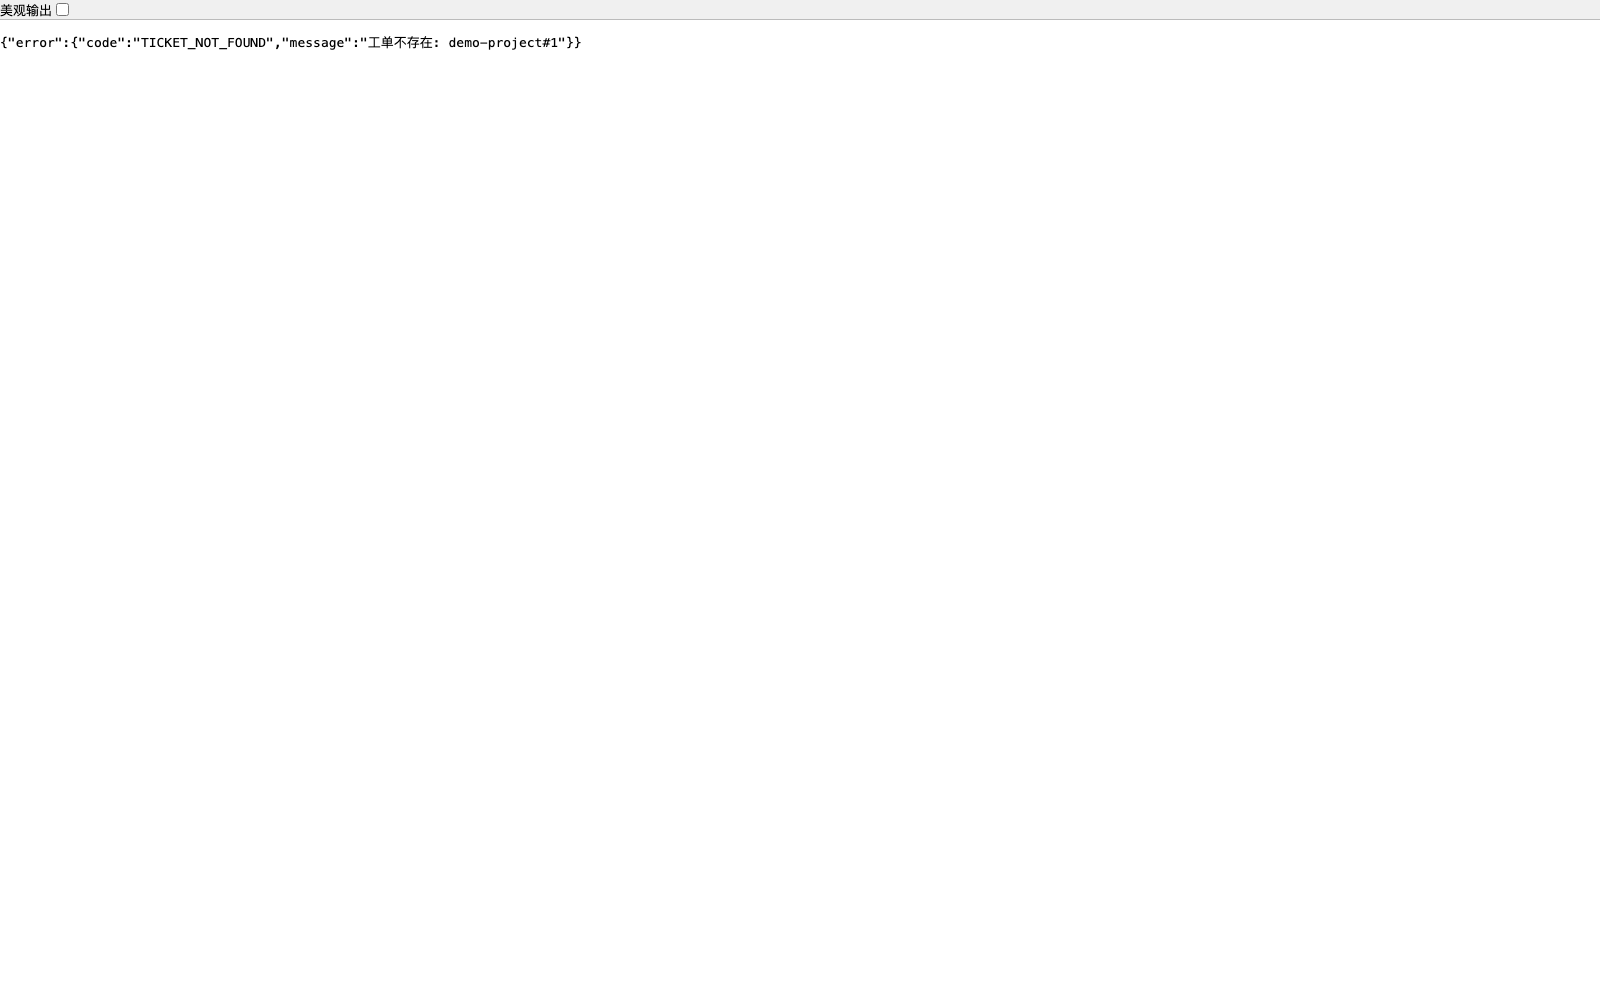
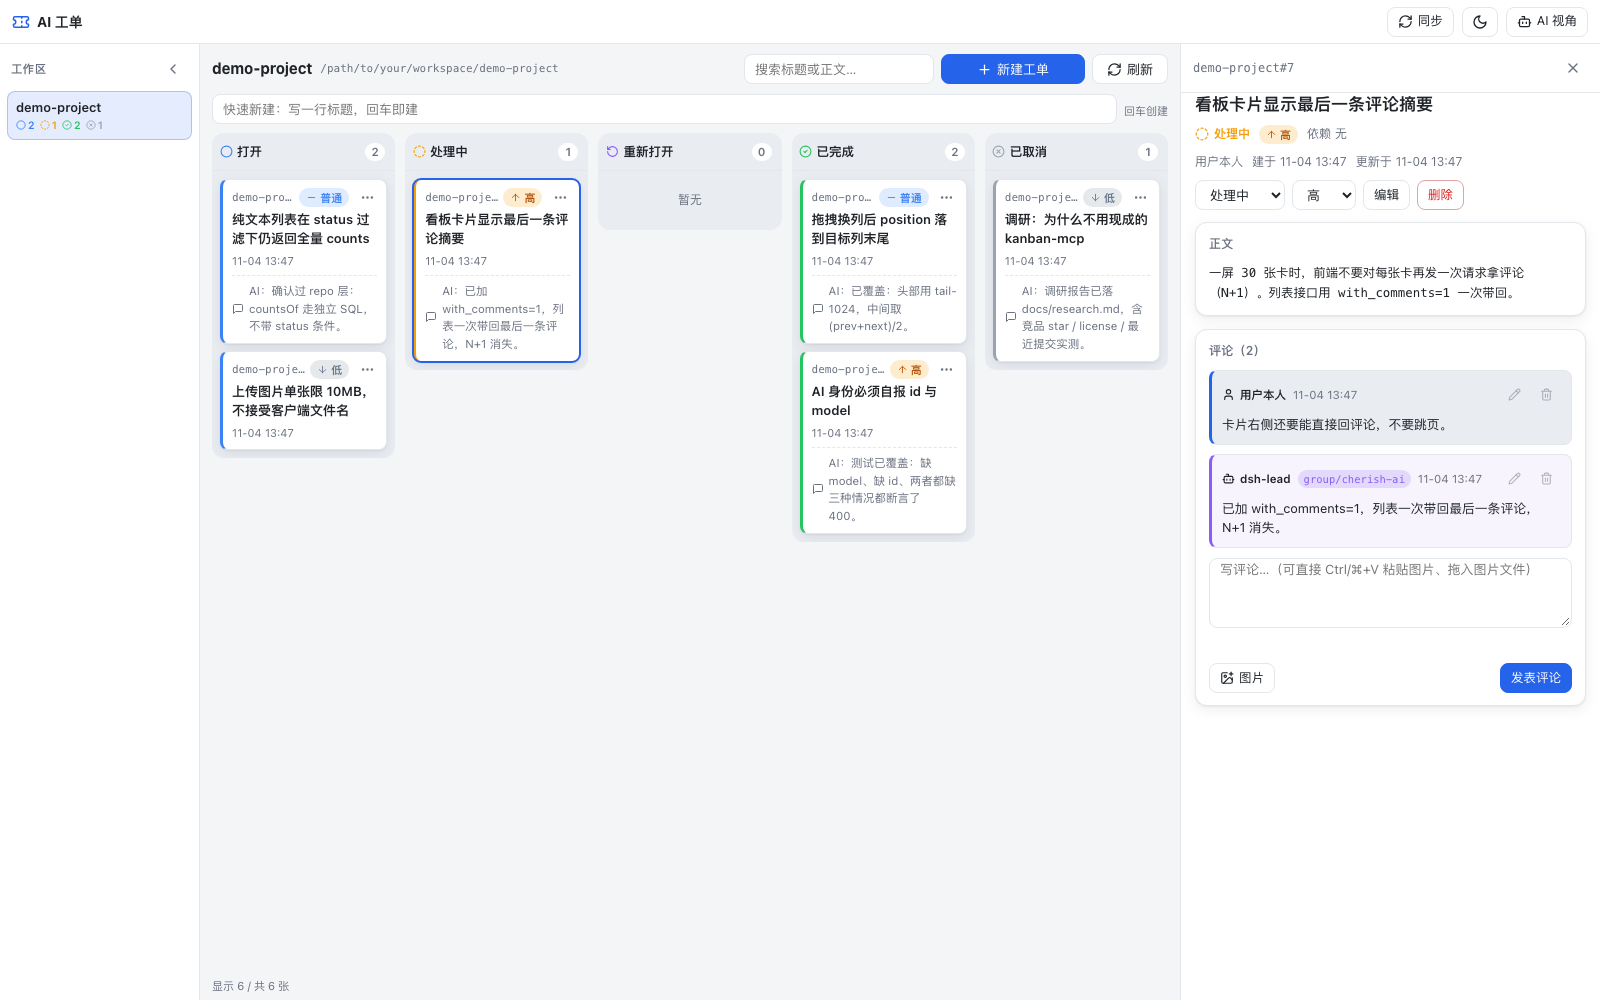
docs+web: 补 AGENTS.md 协作规范、README 截图，修 common.js 一处问题

diff --git a/web/common.js b/web/common.js
@@ -409,9 +409,24 @@
       }
     });
     document.body.appendChild(drawer);
-    document.addEventListener('keydown', function escClose(e) {
-      if (e.key === 'Escape') { drawer.remove(); document.removeEventListener('keydown', escClose); }
-    });
+
+    // 统一的收尾：移除抽屉 + 摘掉两个全局监听，避免泄漏
+    function closeDrawer() {
+      drawer.remove();
+      document.removeEventListener('keydown', onEsc);
+      document.removeEventListener('mousedown', onOutside);
+    }
+    function onEsc(e) { if (e.key === 'Escape') closeDrawer(); }
+
+    // 用户补充（#46）：这个抽屉点外面可以直接收回 —— 它只展示一条 URL，没有未保存内容，
+    // 不属于「点了外面就丢东西」的表单弹窗，所以维持点外关闭的交互。
+    function onOutside(e) {
+      if (!drawer.contains(e.target)) closeDrawer();
+    }
+    document.addEventListener('keydown', onEsc);
+    // 延迟挂载，避免「点开抽屉的那一次点击」立刻把它关掉
+    setTimeout(function () { document.addEventListener('mousedown', onOutside); }, 0);
+
     return drawer;
   }
 

diff --git a/docs/agents/LAYOUT.md b/docs/agents/LAYOUT.md
@@ -1,0 +1,135 @@
+# 目录地图与文件规范
+
+> 本文件是「文件和目录放哪里」的唯一权威清单，由根目录 [`AGENTS.md`](../../AGENTS.md) 引用。
+> 冲突时以本文件为准：`AGENTS.md` 只留引用，不再重复登记。
+
+这个仓库有多个会话、多个 AI 同时在改。历史上每个 AI 都按自己的习惯造一套目录（`static/` / `public/` / `frontend/` …），导致资源散落、同一种东西好几个地方都有。下面这套规则就是为了把这件事锁死。
+
+要求：
+
+1. 只用第一节目录树里登记过的目录。 树里没有的目录，未经过用户明确要求的一律不许新建。
+2. 判定看用途，不看名字。 不要问"我叫这个名字算不算违规"，要问"这个用途树里有没有登记位置"。有，就必须用那一个；换个名字另造一份，同样是违规。
+3. 根目录是锁死的。 根级只允许 `AGENTS.md` `README.md` `LICENSE` `package.json` `package-lock.json` `.gitignore`，不许往根上扔任何报告、脚本、截图、日志。
+4. 确实找不到合适的位置才允许新建，而且必须同一次改动里先把新条目写进第一节的目录树（写清用途和约束），再创建目录。
+5. 提交前必跑 `npm test` 与 `npm run smoke`，两个都全绿才算过。布局本身目前靠这条规则和 review 核对，没有脚本自动兜。
+
+`目录地图` 就是那份唯一的权威清单。
+
+---
+
+## 一、目录地图
+
+规则：已登记目录内部可以正常新增文件（比如 `tests/` 里多一份用例、`src/repo/` 里多一个模块），但文件名必须过下面「文件命名」那几条。
+
+下面这些同类型行为一律禁止：
+
+| 想干的事 | 树里已登记的位置 | 不许出现的写法（举例，不限于此） |
+| --- | --- | --- |
+| 存页面截图 | `docs/screenshots/` | `screenshot/` `shots/` `captures/` `snapshots/` `pics/` `photo/` `img/` `png/` |
+| 存文档配图 | `docs/` | `docs/images/` `docs/pic/` `docs/figures/` `doc-assets/` |
+| 放数据层代码 | `src/repo/` | `src/models/` `src/dao/` `src/db/` `src/store/` |
+| 放 HTTP 路由 | `src/routes/` | `src/api/` `src/controllers/` `src/handlers/` `src/endpoints/` |
+| 放纯文本渲染 | `src/render/` | `src/text/` `src/formatter/` `src/format/` `src/plain/` |
+| 放前端脚本 | `web/` | `static/` `public/` `frontend/` `client/` `assets/` `js/` `css/` |
+| 放自动化测试 | `tests/` | `test/` `__tests__/` `spec/` `e2e/` |
+| 放可重复跑的工具脚本 | `scripts/` | `tools/` `bin/` `util/` `helpers/` |
+| 放一次性试验脚本 | 不许留在仓库；要留就进 `scripts/` 并写清用途 | `tmp/` `scratch/` `temp/` `playground/` `demo/` `sandbox/` `experiments/` |
+| 写项目级文档 | `docs/` | 根级 `REPORT.md` `SUMMARY.md` `NOTES.md` `TODO.md` `验收.md`；`doc/` `documents/` |
+| 放运行期数据 | `data/`（整个目录 gitignore） | 根级 `db/` `database/` `storage/` `uploads/` |
+| 备份 / 旧版本 | 不许备份，用 git 历史 | `bak/` `backup/` `old/` `legacy/` `archive/` `*-copy` `*-old` `v2/` `new/` |
+
+三秒判定法：先问"这个东西属于哪个已登记用途"，找到就用那一个位置；一个都找不到，才允许新建，而且必须先写进下面的目录树、再创建目录。
+
+```
+ai-mcp-ticket/
+├── AGENTS.md                    协作铁律（唯一入口）。目录与文件规范见 docs/agents/LAYOUT.md
+├── README.md                    项目总览、架构、启动步骤、MCP 接入
+├── LICENSE                      MIT
+├── package.json                 根脚本：start / dev / test / smoke
+├── package-lock.json            依赖版本锁定，npm 自动维护，不手改
+├── .gitignore                   依赖 / 运行期数据 / 上传 / 日志 / 备份 全在这里挡
+│
+├── src/                         后端。ESM，按职责分层，不放前端代码
+│   ├── server.js                进程入口：读 PORT，起 HTTP，注册三套接口
+│   ├── app.js                   Express 装配：路由挂载 / 内容协商 / 错误处理
+│   ├── db.js                    唯一数据库连接：读 DB_PATH，建表，开 WAL
+│   ├── actor.js                 身份解析：X-Actor-Id / X-Actor-Role / X-Actor-Model
+│   ├── mcp.js                   MCP 服务：10 个工具，走 /mcp
+│   ├── views.js                 HTML 视图
+│   ├── workspace-sync.js        从 DeepSeek Harness 只读同步工作区，读 DSH_HOME
+│   ├── repo/                    数据层，只操作本文件登记的表
+│   │   ├── tickets.js
+│   │   ├── comments.js
+│   │   ├── actors.js
+│   │   └── workspaces.js
+│   ├── routes/                  HTTP 路由，只做入参校验 + 调 repo
+│   │   ├── api.js               JSON 写接口
+│   │   ├── pages.js             网页 + 纯文本视图
+│   │   └── uploads.js           附件上传，落 UPLOAD_DIR
+│   └── render/
+│       └── text.js              纯文本渲染。给 AI 读，改这里要算 token 成本
+│
+├── web/                         前端。原生 HTML/CSS/JS，无框架、无打包、无构建步骤
+│   ├── index.html               唯一页面入口
+│   ├── app.js                   启动与路由
+│   ├── board.js                 看板拖拽
+│   ├── detail.js                工单详情
+│   ├── editor.js                新建 / 编辑工单
+│   ├── common.js                共享工具：请求、格式化、身份
+│   ├── sidebar.js               工作区侧栏
+│   ├── deps-picker.js           依赖选择器
+│   ├── images.js                附件预览
+│   ├── icons.js                 内联图标
+│   ├── style.css                组件样式
+│   └── layout.css               布局样式
+│
+├── tests/                       node:test 用例，一个文件对一个模块
+│
+├── scripts/                     可重复跑的工具脚本，不放业务代码
+│   ├── smoke.js                 端到端冒烟
+│   ├── demo-data.mjs            造演示数据
+│   ├── install-dsh-mcp.mjs      把 MCP 接进 DeepSeek Harness
+│   └── ticket.sh                命令行读写工单
+│
+├── docs/                        项目级文档
+│   ├── agents/                  给 AI 会话看的规则子文档
+│   │   └── LAYOUT.md            本文件：目录地图 + 文件命名 + 新建目录的硬流程（唯一权威）
+│   ├── screenshots/             验收截图。全仓库唯一的截图目录
+│   ├── CONTRACT.md              接口契约（v1，冻结）：领域模型 / 接口形状 / 口径
+│   ├── research.md              调研笔记
+│   └── plain-text.png           纯文本视图示意
+│
+└── data/                        运行期数据，整目录 gitignore，不许入库
+    ├── ticket.db                SQLite 主库（含 -wal / -shm）
+    └── uploads/                 附件
+```
+
+### 根目录只许有这几个文件
+
+根目录是"目录名混乱"和"临时文件"的重灾区，所以单独锁死。根级只允许：
+
+`AGENTS.md` `README.md` `LICENSE` `package.json` `package-lock.json` `.gitignore`
+
+### 文件命名也别乱来
+
+1. 文件名用英文小写 + 连字符或下划线，不用中文、不用空格、不用拼音、不用 `新建文档` `未命名` 这类名字。
+2. 同一个东西尽量别出现"第二版文件名"：`AGENTS-v2.md` `README-new.md` `xxx-final.md` `xxx-最终版.md` `xxx-副本.md` ，要改最好直接改原文件（git 有历史）。
+3. 文档正文放 `docs/`，不许散落在根目录和代码目录里。
+4. 临时文件不许落在仓库任何位置；`data/` 里的东西不入库，也别把 `data/` 里的文件路径写进文档或代码。
+5. 图片只许放在 `docs/screenshots/` 与 `docs/` 两处，根据类型分别存放，放在别处一律算违规。
+
+### 新建目录 / 新建文件的硬流程
+
+1. 先查上面的「想干的事 → 已登记位置」表。能对上，就用已登记的位置，不许新建。
+2. 对不上，才允许新建；必须同一次改动里先把新条目写进本文件第一节的目录树（写清用途和约束），再创建。
+3. 新建目录时里面暂时没文件，必须放一个 `.gitkeep`，否则 git 不跟踪这个目录，用户 clone 下来就没了。
+4. 目录名用英文小写 + 连字符，不用中文、不用空格、不用拼音、不用缩写。
+5. 一个用途只有一个目录。发现同义目录并存：保留本节登记的那个，另一个清空后删掉，两个都留着算违规。
+6. 不许删除或改名本节点里的已登记目录；要动结构，先改本文件，再动磁盘。
+
+### 可选自检
+
+```bash
+npm test          # node:test 用例
+npm run smoke     # 端到端冒烟
+```

diff --git a/AGENTS.md b/AGENTS.md
@@ -1,0 +1,82 @@
+# AGENTS.md
+
+## 项目定位
+
+单进程 Node.js + 单文件 SQLite（better-sqlite3），ESM，无构建步骤，Node 版本 >= 22；后端按 repo / routes / render 分层写，代码和注释都要简洁，并且做到组件化、模块化。前后端各自一个目录、互不掺和；前端是 `web/` 下的原生 HTML/CSS/JS，没有框架、没有打包。
+
+三套接口读同一份数据：网页 HTML、AI 纯文本（`Accept: text/plain`）、MCP（10 个工具）。给 AI 的返回是纯文本，不是 JSON。
+
+数据库只有一个文件：`data/ticket.db`（WAL 模式），工单、评论、actor、workspace 全在里面。表结构与接口形状见 [`docs/CONTRACT.md`](./docs/CONTRACT.md)，该文件已冻结，是后端 / 前端 / 测试三方唯一对齐依据。
+
+工作区只读镜像自 DeepSeek Harness（`$DSH_HOME/storages/workspace.json`），本项目内不增删改工作区。
+
+最终目的只有一个：**让工单成为人和 AI 的共享状态**，而不是聊天记录里的一段话。所有取舍都朝这个目的努力。
+
+---
+
+## 一、目录与文件规范
+
+文件放哪、目录怎么建，以 `docs/CONTRACT.md` 与现有结构为准，不另起一套。
+
+提交前 `npm test` 与 `npm run smoke` 必须全绿。
+
+---
+
+## 二、开工前
+
+1. 先看当前在哪个分支、工作区脏不脏：`git branch --show-current && git status --short`。
+2. 先看最近提交，理解上一轮做到哪：`git log --oneline -10`。
+3. 先读相关代码与 `docs/CONTRACT.md` 再动手，禁止凭印象改。
+4. 不确定就搜；搜完仍不确定就问用户，别猜着往下做。
+5. 要写新东西前先搜有没有现成实现，有就用，别手搓。
+
+## 三、Git 铁律
+
+1. 已有 git 就禁止 bak：禁止造 `*.bak` / `*.old` / `*-copy` / 备份目录 / 备份分支。回退用 git。
+2. 禁止 `git reset --hard`、禁止 `git push --force`，这两条会抹掉用户的提交。
+3. 禁止 rebase / amend 改历史。
+4. 在当前分支开发，不擅自切分支，不随便创建新的分支。
+
+## 四、多会话协作
+
+1. 用户同时在改动内容，发现不是你这次要改的变动，那是用户自己正在改，不要覆盖、不要回退、不要"顺手修正"。
+2. 改文件时要注意，别拿旧版本覆盖用户的新改动。
+
+## 五、改代码
+
+1. 更少路径：不加"兼容旧代码""兜底""保留旧逻辑"的分支。
+2. 一个规则只许有一份实现，别在第二个文件里复制一份再改。
+3. 能改就改到位，不要留半成品。
+4. 删代码前先 grep 确认没人引用。
+5. 禁止 `catch(() => {})` 吞异常，错误必须抛出或打印完整。
+6. 命名直白，让人一眼看懂在干什么。
+7. 每一处业务逻辑、每一个 action，都必须至少配一个单元测试。不要有关于文案的测试用例。做完需求默认只跑这次改动涉及的那部分测试；用户明确要求、或你判断有必要时才跑全量。
+8. 口径改动，必须同时更新 `docs/CONTRACT.md` 里对应的形状或口径说明，别让代码和契约各说各话。
+9. `src/render/text.js` 的输出是给 AI 读的，改动要算 token 成本，别加无用的结构性字符。
+
+## 六、排障
+
+1. 禁止靠猜。先加日志、看日志定位根因，再改代码。
+2. 修 bug 不只看这一处：搜同类写法、查调用方、想清楚是局部问题还是设计问题。
+3. 全局改名的遗漏必须全项目 grep 一遍，漏一处就是定时炸弹。
+4. 不要为了绕开报错去删日志或加兜底。
+5. 用户使用上海时区，不得与用户冲突，时间数据、汇报等需要考虑自适应。
+
+## 七、密钥与配置
+
+1. 运行时数据（`data/*.db`、`data/uploads/`）不入库，已在 `.gitignore`。
+2. 环境变量只有 `PORT` / `DB_PATH` / `DSH_HOME` / `UPLOAD_DIR`，只在各自模块读一次（`server.js` / `db.js` / `workspace-sync.js` / `routes/uploads.js`），禁止在业务代码里散落 `process.env.X` 或魔数。
+
+## 八、沟通
+
+1. 用中文，说人话，不堆术语，不用简写，不用缩略词。
+2. 不管是用户还是别的会话给出的结论，都不要直接相信，就连自己说的话也不要完全相信。拿到结果后，要用批判的眼光去验证、去验收，该怀疑就怀疑。但也不要因此过度纠结：验证到能确认事实就行，不要反复绕圈。
+
+## 九、常用命令
+
+```bash
+npm start                 # 服务 http://127.0.0.1:47321（看板 + REST + MCP）
+npm run dev               # 同上，改代码自动重启
+npm test                  # node:test 用例
+npm run smoke             # 端到端冒烟
+```

diff --git a/README.md b/README.md
@@ -13,6 +13,10 @@
 
 > **In English:** A ticket system where humans get a drag-and-drop kanban in the browser, while AI agents read the *same* tickets as plain text via `Accept: text/plain` or 10 MCP tools — no JSON bloat. One Node process, one SQLite file, zero build step. Workspaces auto-sync from DeepSeek Harness.
 
+![看板：人在浏览器拖拽，AI 在评论里留痕](docs/screenshots/board.png)
+
+**左边**工作区目录，**中间**五列看板（拖拽换列 / 列内排序），**右边**工单详情 —— 全程单页不跳转。评论区分 `user` 与 `ai` 并标出模型名，AI 留过痕的卡片一眼可辨。
+
 ---
 
 ## 目录
@@ -118,7 +122,7 @@ npm start
 
 换端口：`PORT=8080 npm start`。
 
-> **首次启动需要工作区数据。** 工作区是**只读同步**自 DeepSeek Harness 的，没有「手动新建工作区」的入口 —— 所以没装 DSH 时列表是空的，看板也就无从下手。用演示数据脚本可以先看到界面：`node scripts/demo-data.mjs`（详见 [FAQ](#faq--已知限制)）。
+> **看板是空的？** 工作区是只读同步自 DeepSeek Harness 的，没装 DSH 时列表为空。跑一条命令灌入演示数据：`node scripts/demo-data.mjs`（需要先按 [FAQ](#faq--已知限制) 里「工作区列表是空的」一节让服务能看到一个 `demo-project` 工作区）。
 
 ---
 
@@ -163,6 +167,8 @@ id: 522dee35-8a59-4ab3-bfa4-2b8ceb184145
 ```
 
 注意评论行里的 `user:` 和 `ai:dsh-lead (group/cherish-ai)` —— **谁说的、用什么模型说的**，都在文本里。AI 读一眼就知道上一条是用户提的需求还是另一个 AI 的回复。
+
+![纯文本视图：同样的数据，AI 读的是这个](docs/screenshots/plain-text.png)
 
 ---
 
@@ -220,6 +226,8 @@ node scripts/install-dsh-mcp.mjs --remove   # 移除
 
 同一个 AI 换了模型，就用新的 `model` 写；历史评论保留当时的 model，不改写。所以回头看一条工单，你能准确知道「这句话是哪个模型在什么时候说的」。
 
+![工单详情：user 与 ai 评论分色，AI 评论带 model 标签](docs/screenshots/detail.png)
+
 AI 写东西时带这三个头：
 
 ```bash
@@ -259,11 +267,18 @@ npm run smoke   # 17 项端到端冒烟，对着运行中的实例跑
 不能。工单属于某个工作区，`ref` 里带工作区 slug。要换工作区，就新建一张。
 
 **工作区列表是空的？**
-说明没找到 DSH 的 `workspace.json`。要么装 DSH，要么设 `DSH_HOME` 指向一个有 `storages/workspace.json` 的目录。数据格式：
+说明没找到 DSH 的 `workspace.json`。要么装 DSH，要么手工造一个演示数据源：
 
-```json
-{ "tables": { "workspaces": { "<uuid>": { "path": "/path/to/project", "title": "项目名" } } } }
+```bash
+mkdir -p ~/demo-dsh/storages
+cat > ~/demo-dsh/storages/workspace.json <<'EOF'
+{"tables":{"workspaces":{"00000000-0000-4000-8000-000000000001":{"path":"/path/to/your/workspace/demo-project","title":"demo-project"}}}}
+EOF
+DSH_HOME=~/demo-dsh npm start
+node scripts/demo-data.mjs     # 灌入 6 张演示工单 + 人机评论
 ```
+
+数据格式：`{"tables":{"workspaces":{"<uuid>":{"path":"/path/to/project","title":"项目名"}}}}`。演示数据可用 `node scripts/demo-data.mjs --reset` 清掉重灌；删除演示工作区本身，把 `workspace.json` 里那条记录去掉再同步即可。
 
 **能不用 DSH 吗？**
 能。工作区同步是可选便利，不是依赖。REST API 和 MCP 工具都不依赖 DSH。
